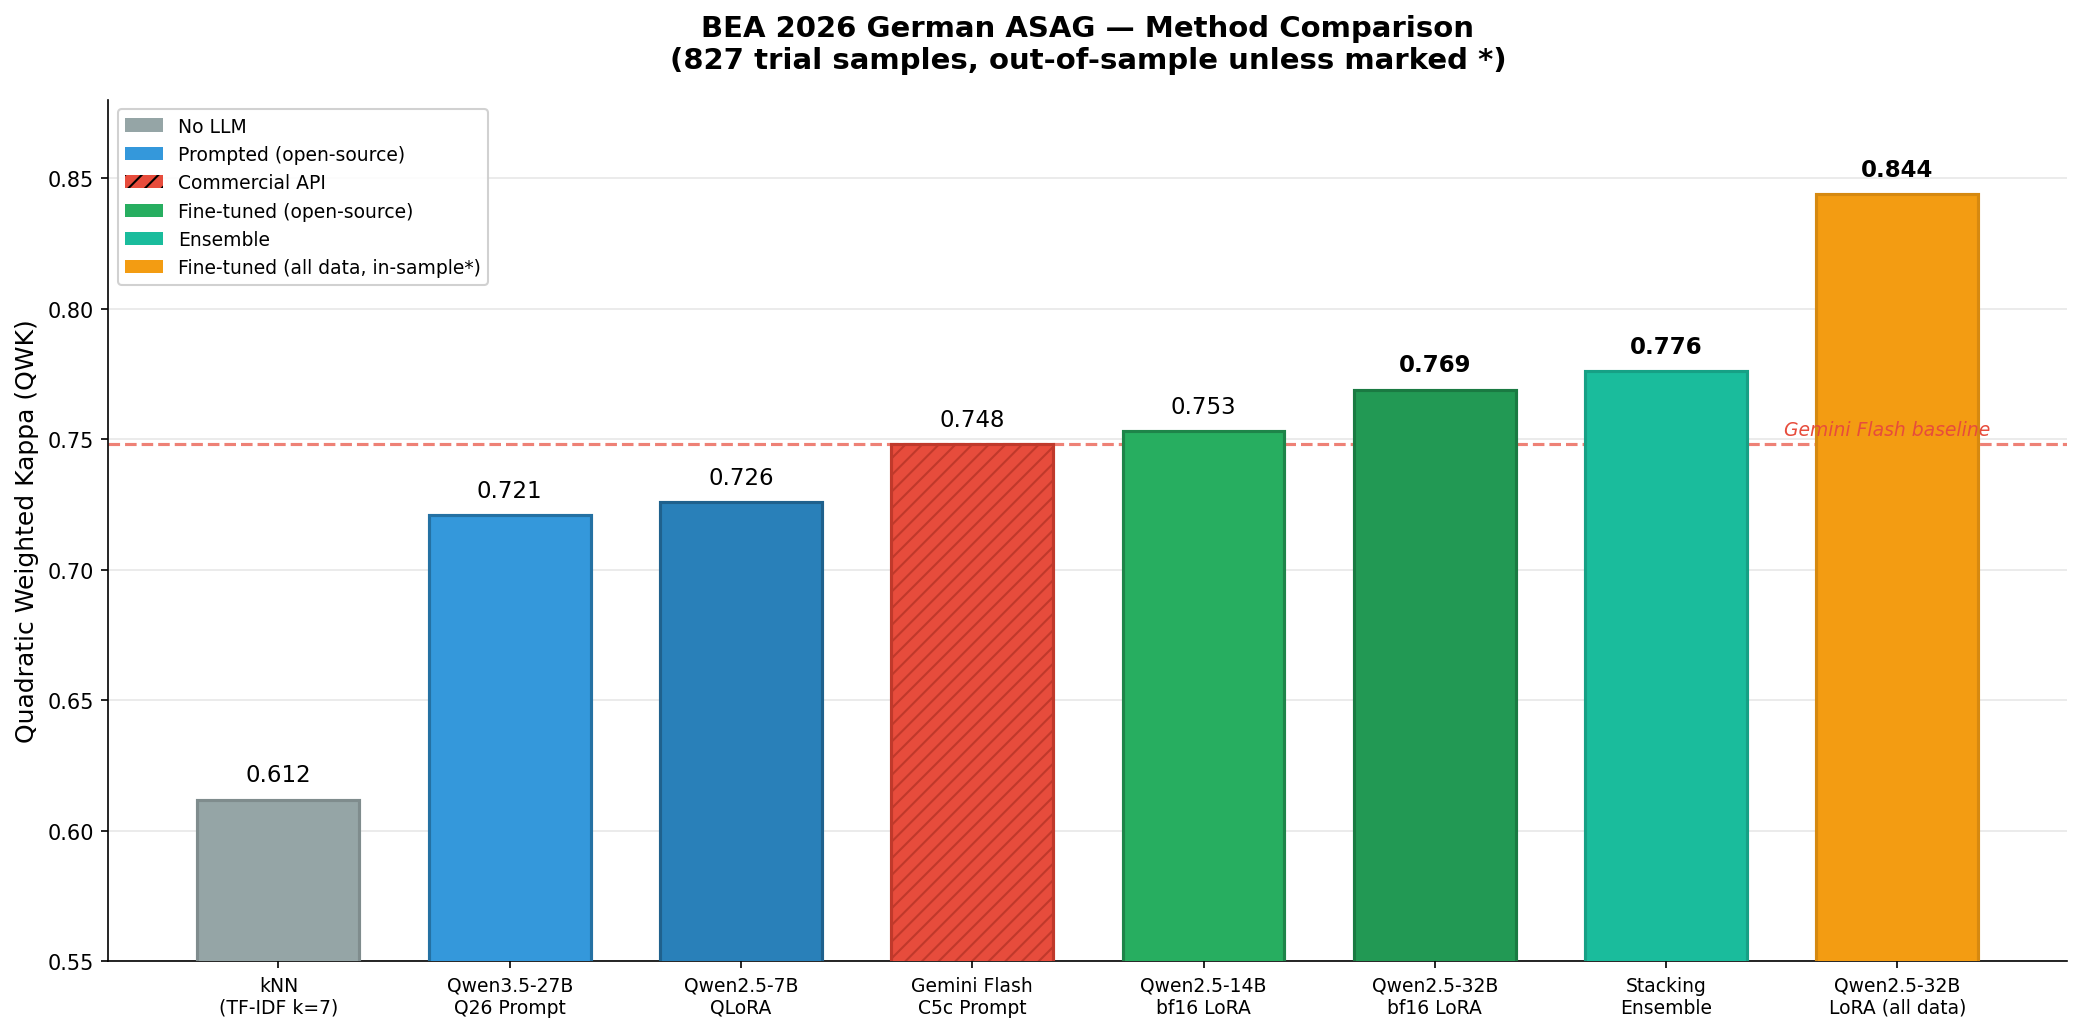
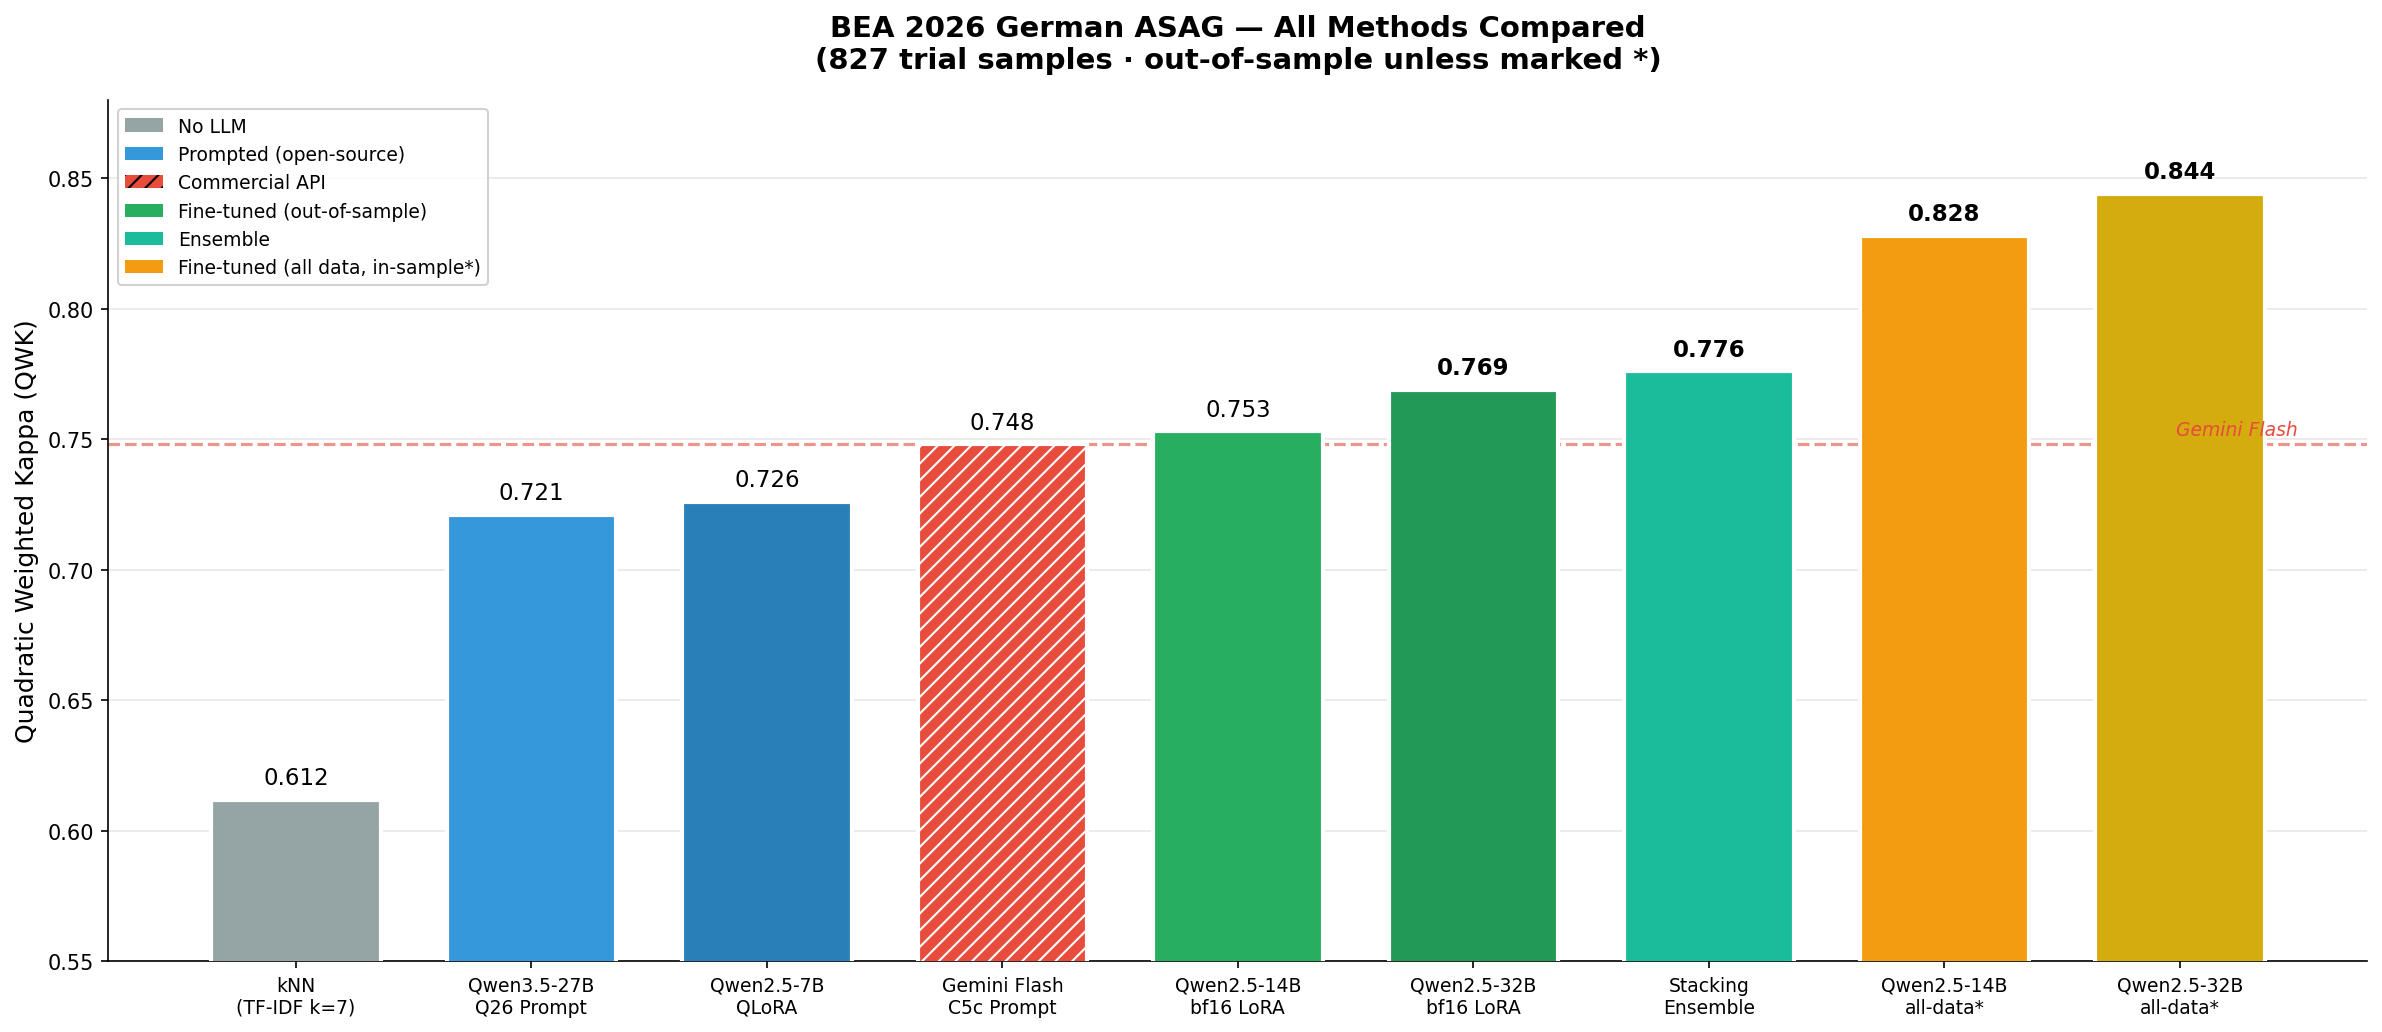
Update README + diagrams with final results and submission status
- Added 14B/32B all-data in-sample results to comparison chart
- Added test submission status table (all 4 tracks, both models)
- Updated scaling curve with latest data points
- Added CodaBench links and submission format details

diff --git a/README.md b/README.md
@@ -6,6 +6,8 @@ on the ALICE-LP-1.0 dataset.
 
 **Authors:** Jonas Gwozdz, Andreas Both — HTWK Leipzig / WSE Research
 
+**Status:** Test data scored and submitted to CodaBench (all 4 tracks). Leaderboards on April 3.
+
 ## Results Overview
 
 ![Method Comparison](docs/results_comparison.png)
@@ -18,110 +20,78 @@ on the ALICE-LP-1.0 dataset.
 
 ## Best Results (827 trial samples)
 
-| System | QWK | Acc | Method |
-|--------|-----|-----|--------|
-| Qwen2.5-32B LoRA (all data) | 0.844* | 82.6% | bf16 LoRA fine-tune, r=32, 3 epochs |
-| Qwen2.5-32B LoRA (train-only) | 0.769 | 75.7% | Unbiased out-of-sample |
-| Stacking ensemble (5 models) | 0.776 | 75.5% | LogReg over 3 FT + Q26 prompt + kNN |
-| Qwen2.5-14B LoRA (train-only) | 0.753 | 74.1% | Unbiased out-of-sample |
-| Gemini 3 Flash (C5c prompt) | 0.748 | 73.6% | Commercial API baseline |
-| Qwen3.5-27B (Q26 prompt) | 0.721 | 70.2% | Best prompt-only, open-source |
-| Qwen2.5-7B QLoRA (train-only) | 0.726 | 70.9% | Unbiased out-of-sample |
-| TF-IDF kNN (k=7) | 0.612 | 64.5% | No LLM needed |
+| System | QWK | Acc | Method | Submitted? |
+|--------|-----|-----|--------|------------|
+| Qwen2.5-32B LoRA (all data) | 0.844* | 82.6% | bf16 LoRA, r=32, 3 epochs | Yes (all 4 tracks) |
+| Qwen2.5-14B LoRA (all data) | 0.828* | 80.9% | bf16 LoRA, r=32, 3 epochs | Yes (all 4 tracks) |
+| Stacking ensemble (5 models) | 0.776 | 75.5% | LogReg over 3 FT + Q26 + kNN | — |
+| Qwen2.5-32B LoRA (train-only) | 0.769 | 75.7% | Unbiased out-of-sample | — |
+| Qwen2.5-14B LoRA (train-only) | 0.753 | 74.1% | Unbiased out-of-sample | — |
+| Gemini 3 Flash (C5c prompt) | 0.748 | 73.6% | Commercial API baseline | — |
+| Qwen2.5-7B QLoRA (train-only) | 0.726 | 70.9% | Unbiased out-of-sample | — |
+| Qwen3.5-27B (Q26 prompt) | 0.721 | 70.2% | Best prompt-only, open-source | — |
+| TF-IDF kNN (k=7) | 0.612 | 64.5% | No LLM needed | — |
 
 *in-sample (trial included in training data, as allowed by task rules)
+
+## Test Submissions
+
+Scored 5,094 test samples (2,008 unseen answers + 3,086 unseen questions) with two models:
+
+| Model | Track 1 (3-way seen) | Track 2 (2-way seen) | Track 3 (3-way unseen) | Track 4 (2-way unseen) |
+|-------|---------------------|---------------------|----------------------|----------------------|
+| 32B LoRA | 2,008 ✅ | 2,008 ✅ | 3,086 ✅ | 3,086 ✅ |
+| 14B LoRA | 2,008 ✅ | 2,008 ✅ | 3,086 ✅ | 3,086 ✅ |
+
+0 errors across all submissions. Results on [CodaBench](https://www.codabench.org/competitions/14622/) after April 3.
 
 ## Repository Structure
 
 ```
-├── data/
-│   └── raw/3way/              # ALICE-LP-1.0 training + trial data
+├── data/raw/                     # ALICE-LP-1.0 data (train, trial, test)
 ├── src/
-│   ├── common/                # Shared utilities (OpenRouter client, data loaders)
-│   ├── strategy_a_rubric_only/   # Gemini: rubric-only baseline
-│   ├── strategy_b_rubric_rules/  # Gemini: + decision rules
-│   ├── strategy_c*_*/            # Gemini: iterative prompt development (A→C5c)
-│   ├── strategy_c6*_*/           # Claude Sonnet / GPT experiments
-│   └── strategy_qwen/           # Open-source track (see strategy_qwen/README.md)
-│       ├── prompting/           # Qwen3.5-27B prompt engineering (33 variants, 8 rounds)
-│       ├── finetuning/          # LoRA fine-tuning (7B/14B/32B/72B)
-│       └── evaluation/          # Scoring, ensemble, confidence threshold
-├── results/
-│   ├── strategy_c5c/           # Gemini Flash C5c results
-│   └── strategy_qwen/          # All Qwen results (110 files)
-├── models/                     # LoRA adapters (gitignored, local only)
-└── submissions/                # Test set submission files
+│   ├── common/                   # Shared utilities (OpenRouter client, data loaders)
+│   ├── strategy_a..c6b/          # Gemini prompt engineering (A→C5c)
+│   └── strategy_qwen/            # Open-source track
+│       ├── prompting/            # Qwen3.5-27B: 33 prompt variants, 8 rounds
+│       ├── finetuning/           # LoRA fine-tuning: 7B/14B/32B/72B
+│       └── evaluation/           # Scoring, ensemble, confidence threshold
+├── results/strategy_qwen/        # 110+ metrics and prediction files
+├── submissions/codabench/        # CodaBench-ready zip files
+├── models/                       # LoRA adapters (gitignored)
+└── docs/                         # Diagrams
 ```
 
-## Quick Start
+See [`src/strategy_qwen/README.md`](src/strategy_qwen/README.md) for detailed reproduction steps.
 
-### Score with the fine-tuned submission model
-
-```bash
-# Prerequisites
-pip install torch transformers peft scikit-learn
-
-# Score test data with 32B fine-tuned model (direct PEFT inference, 2 GPUs)
-python -m src.strategy_qwen.evaluation.score_32b_direct
-
-# Or comprehensive pipeline (32B + 14B + kNN + ensemble)
-python -m src.strategy_qwen.evaluation.score_test_comprehensive \
-  --test-3way data/raw/3way/ALICE_LP_test_3way.json
-```
-
-### Score with Gemini Flash (commercial API)
-
-```bash
-# Requires OPENROUTER_API_KEY in .env
-python -m src.strategy_c5c_adaptive.run --split test --workers 5
-```
-
-### Reproduce fine-tuning
-
-```bash
-# 32B all-data (submission model, ~4h on 2×L40S)
-pip install peft trl datasets accelerate
-python -m src.strategy_qwen.finetuning.finetune_32b_alldata
-
-# 14B all-data (faster, ~2.5h on 1×L40S)
-CUDA_VISIBLE_DEVICES=0 python -m src.strategy_qwen.finetuning.finetune_14b_alldata
-```
-
-## Approach Summary
+## Approach
 
 ### Track 1: Prompt Engineering
 
-Iterative prompt development for two model families:
+- **Gemini 3 Flash** (C5c): 6 iterative strategies, TF-IDF smart examples, adaptive difficulty → QWK 0.748
+- **Qwen3.5-27B** (Q26): 33 variants from scratch, German prompts, rubric-first → QWK 0.721
 
-- **Gemini 3 Flash** (commercial): 6 strategies (A→C5c), TF-IDF smart example selection,
-  adaptive difficulty → QWK 0.748
-- **Qwen3.5-27B** (open-source): 33 variants across 8 rounds, developed from scratch
-  (German prompts + TF-IDF + rubric-first + strict calibration) → QWK 0.721
-
-Key finding: **prompt-model coupling is checkpoint-specific** — prompts optimized for one model
-don't transfer, even within the same model family.
+Key finding: **prompt-model coupling is checkpoint-specific** — prompts don't transfer across models.
 
 ### Track 2: Fine-Tuning
 
-LoRA fine-tuning on the ALICE-LP training data (7,072 samples, or 7,899 with trial):
-
-- Scaling: 7B (0.726) → 14B (0.753) → 32B (0.769) with diminishing returns
-- Both 14B and 32B **beat Gemini Flash** on unbiased out-of-sample evaluation
-- Fine-tuned models are >99% confident on all predictions (no low-confidence reclassification possible)
+LoRA fine-tuning of Qwen2.5 models (7B → 14B → 32B):
+- Both 14B (0.753) and 32B (0.769) **beat Gemini Flash** on unbiased out-of-sample evaluation
+- Diminishing returns: 7B→14B (+0.027), 14B→32B (+0.016)
+- 72B blocked by VRAM limits (needs H200 80GB)
 
 ### Track 3: Ensemble
 
-LogReg stacking over 5 models (32B FT + 14B FT + 7B FT + Q26 prompt + kNN):
-QWK 0.776 with leave-one-question-out cross-validation — best unbiased result.
+Stacking 5 diverse models (3 fine-tuned + 1 prompted + kNN) → QWK 0.776 (LOO-CV).
 
 ## Hardware
 
-- GPU server: 2× NVIDIA L40S (46 GB VRAM each), CUDA 13.1
-- Fine-tuning: bf16 LoRA (bitsandbytes 4-bit broken on L40S + CUDA 13.1)
-- Prompt engineering: vLLM with tensor parallelism
+- 2× NVIDIA L40S (46 GB VRAM each), CUDA 13.1, Ubuntu 22.04
+- Fine-tuning: bf16 LoRA (bitsandbytes 4-bit broken on L40S)
+- Serving: vLLM for merged models, direct PEFT for 32B
 
 ## Links
 
 - Shared task: https://edutec.science/bea-2026-shared-task/
-- BEA 2026 workshop: https://sig-edu.org/bea/2026
-- Submission portal: https://softconf.com/acl2026/bea2026/
+- BEA 2026: https://sig-edu.org/bea/2026
+- CodaBench: https://www.codabench.org/competitions/14622/
